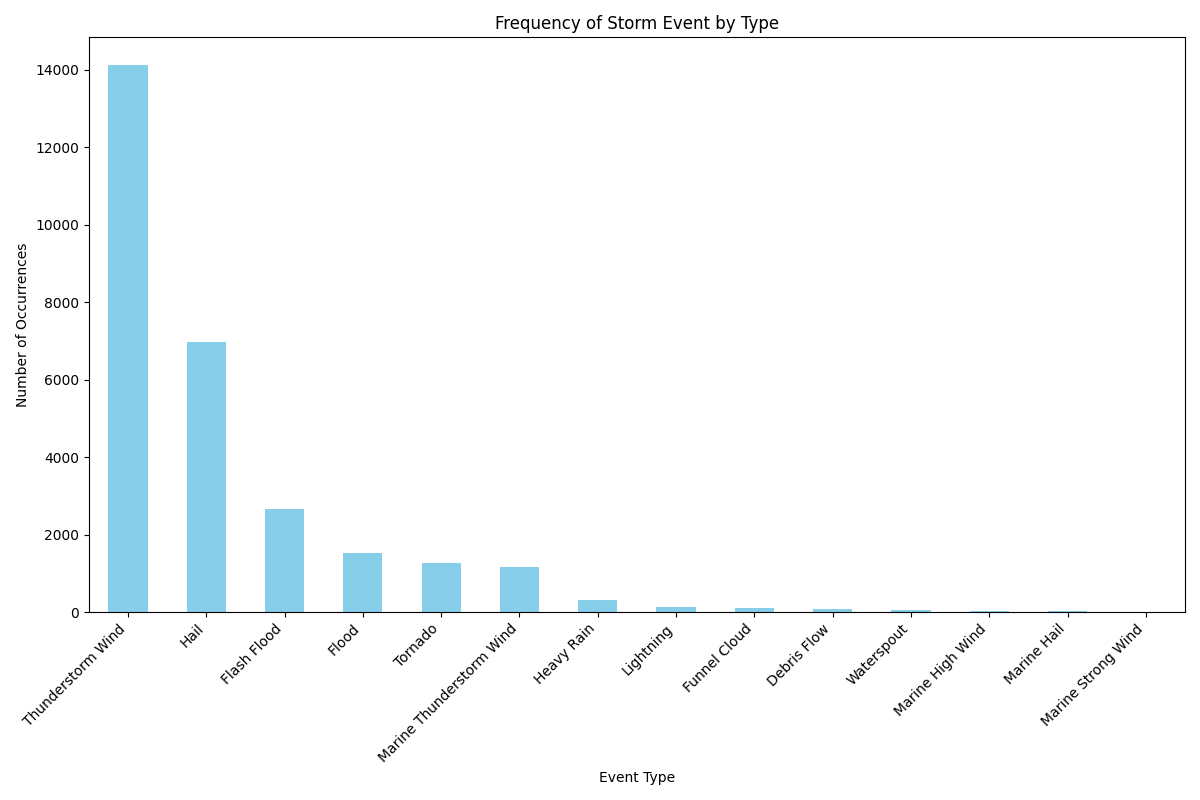
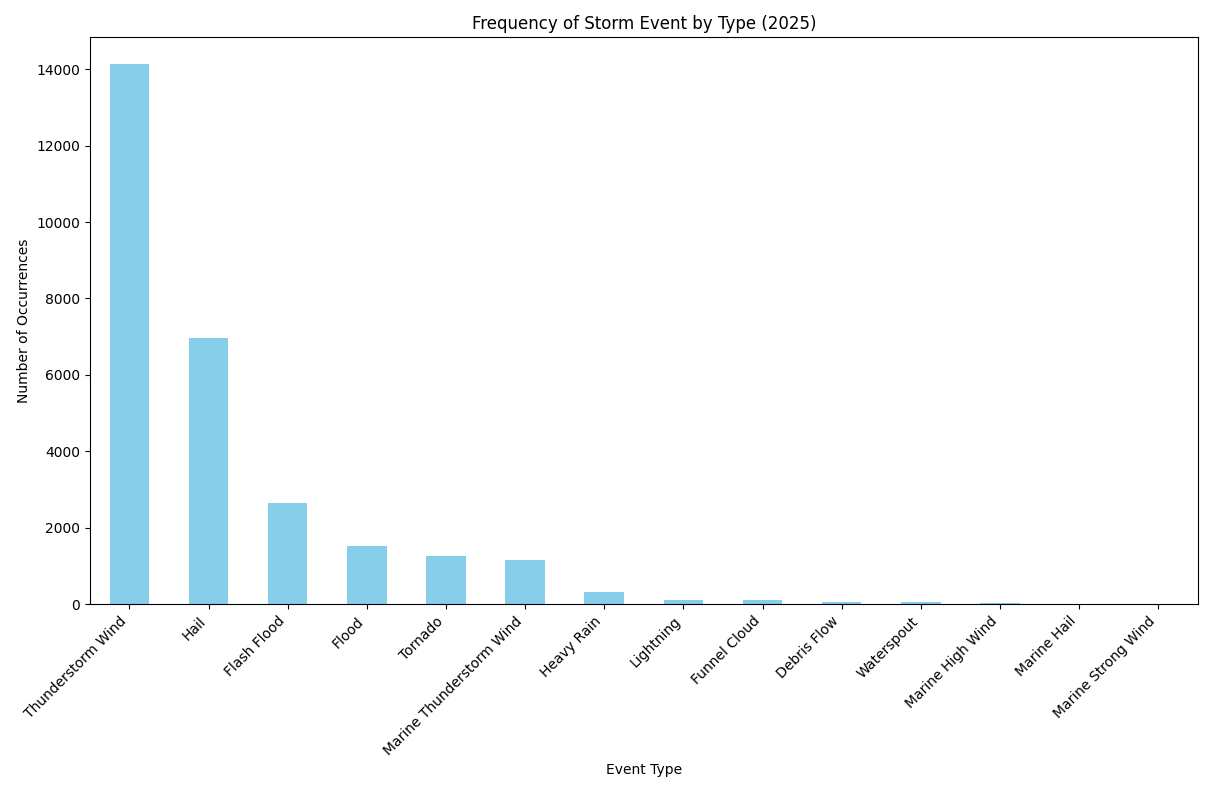
added more pictures and shtuff

diff --git a/event_type_by_frequency.py b/event_type_by_frequency.py
@@ -16,7 +16,7 @@ database_url = os.getenv("DATABASE_URL")
 engine = create_engine(database_url)
 
 # load cleaned data(?)
-df = pd.read_sql('SELECT "EVENT_TYPE" FROM storm_events_details_cleaned', engine)
+df = pd.read_sql('SELECT "EVENT_TYPE" FROM storm_events_details', engine)
 
 # group by event type and count occurrences
 event_counts = df['EVENT_TYPE'].value_counts().sort_values(ascending=False)
@@ -33,7 +33,7 @@ plt.figure(figsize=(12, 8))
 event_counts.plot(kind='bar', color='skyblue')
 
 # title and labels
-plt.title('Frequency of Storm Event by Type')
+plt.title('Frequency of Storm Event by Type (2025)')
 plt.xlabel('Event Type')
 plt.ylabel('Number of Occurrences')
 plt.xticks(rotation=45, ha='right')
